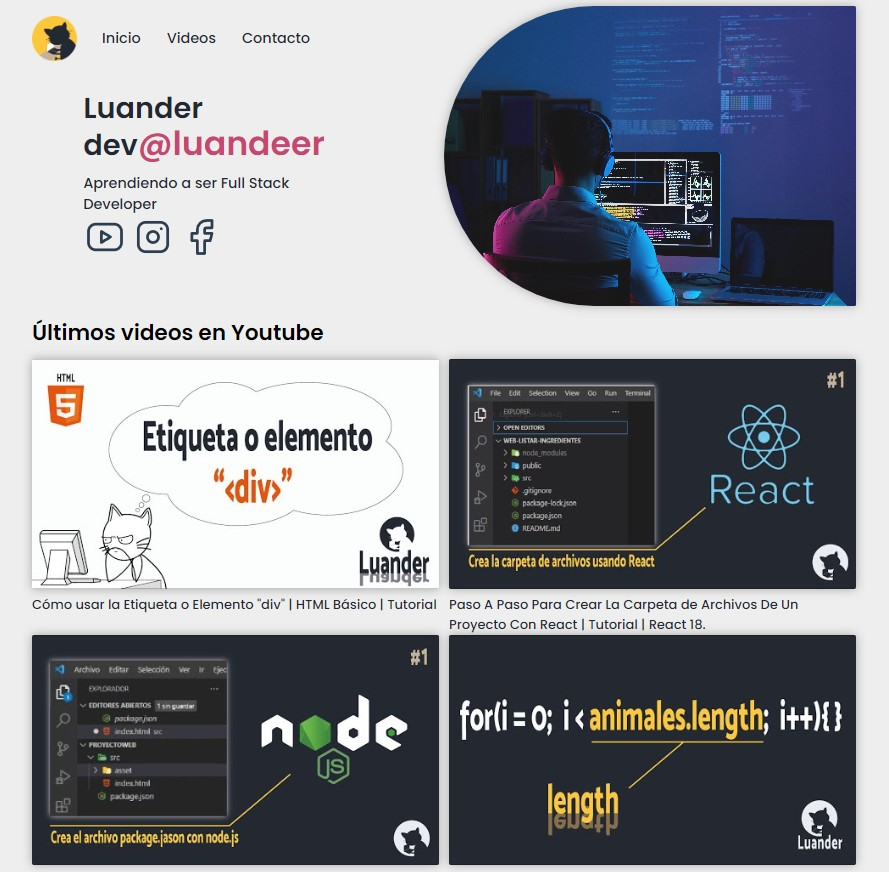
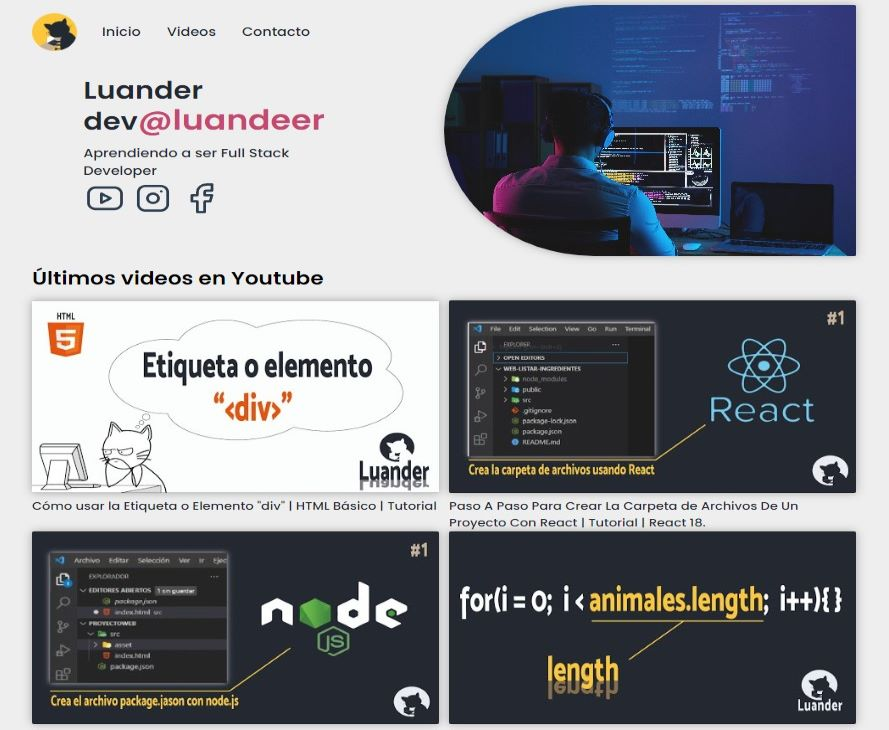
algunos cambios

diff --git a/src/componentes/tecnology/Tecnology.jsx b/src/componentes/tecnology/Tecnology.jsx
@@ -13,21 +13,17 @@ const Tecnology = () => {
           <div className="technology-content">
             <ITEM nombre='CSS3' nivel='intermedio' />
             <ITEM nombre='HTML5' nivel='avanzado' />
-            <ITEM nombre='JavaScript' nivel='intermedio' />
+            <ITEM nombre='JavaScript' nivel='básico' />
             <ITEM nombre='React' nivel='intermedio' />
-            <ITEM nombre='Tailwind' nivel='intermedio' />
-            <ITEM nombre='Diseño UX/UI' nivel='intermedio' />
+            <ITEM nombre='Diseño UX/UI' nivel='básico' />
           </div>
         </div>
         {/*final del frontend */}
         <div className="technology-backend">
           <h3>Backend Development</h3>
           <div className="technology-content">
-            <ITEM nombre='Node JS' nivel='intermedio' />
-            <ITEM nombre='MySQL' nivel='intermedio' />
-            <ITEM nombre='Mongo DB' nivel='intermedio' />
-            <ITEM nombre='SQL Server' nivel='intermedio' />
-            <ITEM nombre='JavasScript' nivel='intermedio' />
+            <ITEM nombre='Node JS' nivel='básico' />
+            <ITEM nombre='Next js' nivel='básico' />
           </div>
         </div>
         {/*final del backend */}

diff --git a/src/componentes/portafolio/portafolio.css b/src/componentes/portafolio/portafolio.css
@@ -7,7 +7,7 @@
 .portafolio-item{
     background: var(--color-bg-variant);
     padding: 1.3rem;
-    border-radius: 0.2rem;
+    border-radius: 2rem;
     border: 1px solid transparent;
     transition: var(--transition);
 }
@@ -18,12 +18,14 @@
 }
 
 .portafolio-item-image{
-    border-radius: 0.2rem;
+    border-radius: 1.5rem;
     overflow: hidden;
+    object-fit: cover;
 }
 
 .portafolio-item h3{
     margin: 1.2rem 0 2rem;
+    height: 150px;
     font-size: 14px;
 }
 

diff --git a/src/assets/css/index.css b/src/assets/css/index.css
@@ -43,7 +43,7 @@ body{
     background: var(--color-bg);
     color: var(--color-white);
     line-height: 1.7;
-    background-image: url(../img/bg-texture1.png);
+    background-image: url(../img/bg-texture.png);
 }
 
 /* Genearl styles */
